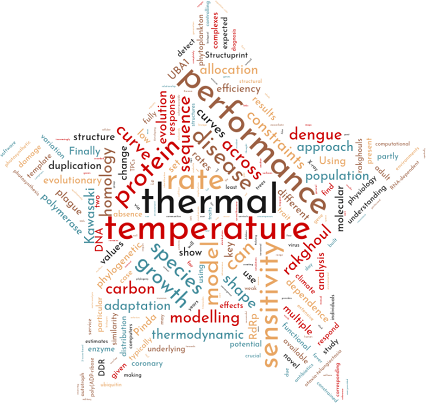
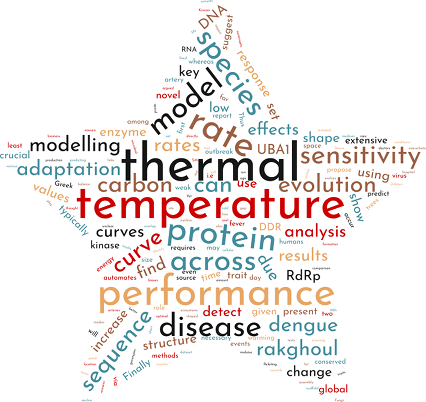
Added the new temperature vs mutations preprint.

Changed region(s): [[0.0, 0.0, 1.0, 1.0]]

diff --git a/_publications/11_Higher_temperatures_worsen.md b/_publications/11_Higher_temperatures_worsen.md
@@ -1,0 +1,60 @@
+---
+title: "<b>11\\.</b> <u>Kontopoulos, D.-G.<sup><a title='Corresponding author'>✉</a></sup></u>, 
+Patmanidis, I., Barraclough, T.G., and 
+Pawar, S. (2020). **Higher temperatures worsen the effects of mutations 
+on protein stability.** 
+bioRxiv. <img src='../images/preprint.png'>"
+collection: publications
+permalink: /publication/11_Higher_temperatures_worsen
+excerpt: '
+  [<span class="underline-on-hover" style="color:#FF6F6F">Abstract</span>](../publication/11_Higher_temperatures_worsen)
+\| [<span class="underline-on-hover" style="color:#FF6F6F">Full text</span>](https://doi.org/10.1101/2020.10.13.337972)
+\| [<span class="underline-on-hover" style="color:#FF6F6F">Code</span>](https://github.com/dgkontopoulos/Kontopoulos_et_al_mutations_vs_temperature_2020)
+\| [<span class="underline-on-hover" style="color:#FF6F6F">Data</span>](https://doi.org/10.6084/m9.figshare.12635837.v1)
+\| [<span class="underline-on-hover" style="color:#FF6F6F"><img src="../images/bibtex.svg">citation</span>](../bibtex/11_Higher_temperatures_worsen.bib)
+'
+---
+
+<br><center><img src="../images/publications/temperature_mutations_ADK.png"></center>
+
+### Abstract:
+
+<p style='text-align: justify;'>
+Developing a thorough understanding of how ectotherm physiology adapts to 
+different thermal environments is of crucial importance, especially in the 
+face of global climate change. A key aspect of an organism's thermal performance 
+curve - the relationship between fitness-related trait performance and temperature - 
+is its thermal sensitivity, i.e., the rate at which trait values increase 
+with temperature within its typically-experienced thermal range. For a 
+given trait, the distribution of thermal sensitivities across species, 
+often quantified as "activation energy" values, is typically right-skewed. 
+Currently, the mechanisms that generate this distribution are unclear, 
+with considerable debate about the role of thermodynamic constraints vs 
+adaptive evolution. Here, using a phylogenetic comparative approach, we 
+study the evolution of the thermal sensitivity of population growth rate 
+across phytoplankton (Cyanobacteria and eukaryotic microalgae) and 
+prokaryotes (bacteria and archaea), two microbial groups that play a major 
+role in the global carbon cycle. We find that thermal sensitivity across 
+these groups is moderately phylogenetically heritable, and that its 
+distribution is shaped by repeated evolutionary convergence throughout 
+its parameter space. More precisely, we detect bursts of adaptive 
+evolution in thermal sensitivity, increasing the amount of overlap among 
+its distributions in different clades. We obtain qualitatively similar 
+results from evolutionary analyses of the thermal sensitivities of two 
+physiological rates underlying growth rate: net photosynthesis and 
+respiration of plants. Furthermore, we find that these episodes of 
+evolutionary convergence are consistent with two opposing forces: decrease 
+in thermal sensitivity due to environmental fluctuations and increase due 
+to adaptation to stable environments. Overall, our results indicate that 
+adaptation can lead to large and relatively rapid shifts in thermal 
+sensitivity, especially in microbes where rapid evolution can occur 
+at short time scales. Thus, more attention needs to be paid to 
+elucidating the implications of rapid evolution in organismal thermal 
+sensitivity for ecosystem functioning.
+
+</p>
+
+[<span class="underline-on-hover" style="color:#FF6F6F">Full text</span>](https://doi.org/10.1101/2020.10.13.337972)
+\| [<span class="underline-on-hover" style="color:#FF6F6F">Code</span>](https://github.com/dgkontopoulos/Kontopoulos_et_al_mutations_vs_temperature_2020)
+\| [<span class="underline-on-hover" style="color:#FF6F6F">Data</span>](https://doi.org/10.6084/m9.figshare.12635837.v1)
+\| [<span class="underline-on-hover" style="color:#FF6F6F"><img src="../images/bibtex.svg">citation</span>](../bibtex/11_Higher_temperatures_worsen.bib)

diff --git a/_pages/research-interests.md b/_pages/research-interests.md
@@ -81,6 +81,9 @@ protein families, basic experience in gene set enrichment analysis.
 
 <br><br>
 <b>Relevant publications:</b><br>
+* <a href='../publication/11_Higher_temperatures_worsen' 
+style="color:#FF6F6F">Higher temperatures worsen the effects of mutations 
+on protein stability.</a><br>
 * <a href='../publication/01_Pinda_A_Web_service_for_detection' 
 style="color:#FF6F6F">Pinda: A 
 Web service for detection and analysis of intraspecies gene duplication events.</a><br>
